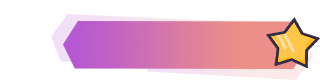
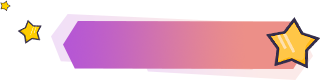
test

Changed region(s): [[0.0312, 0.25, 0.1562, 0.55], [0.0, 0.0, 0.0312, 0.125]]

diff --git a/index.html b/index.html
@@ -37,10 +37,10 @@
 						<div class="index_topmdbox">
 							<span class="active"></span><span></span>
 						</div>
-						<div class="index_treebox swiper-container1">
-							<ul class="clear swiper-wrapper">
+						<div class="index_treebox">
+							<ul class="clear">
 								<!-- 无树 -->
-								<li class="swiper-slide index_treeboxno">
+								<li class="oneli index_treeboxno">
 									<div class="con">
 										<p class="tit">领八宝树</p>
 										<div class="clear">
@@ -50,7 +50,7 @@
 									</div>
 								</li>
 								<!-- 有树 -->
-								<li class="swiper-slide index_treeboxhas">
+								<li class="oneli index_treeboxhas">
 									<a href="#" class="con">
 										<div class="index_treenameb">
 											<span class="ico"><svg class="icon" aria-hidden="true"><use xlink:href="#iconyinliang"></use></svg></span>
@@ -95,7 +95,7 @@
 									</a>
 								</li>
 								<!-- 抽奖 -->
-								<li class="swiper-slide index_treeboxcj">
+								<li class="oneli index_treeboxcj">
 									<a href="#" class="con">
 										<div class="titbox">
 											<span class="ico"><svg class="icon" aria-hidden="true"><use xlink:href="#iconwanwu"></use></svg></span>
@@ -199,6 +199,9 @@
 				</div>
 			</div>
 			<div class="index_adrighttit">
+				<span><svg class="icon" aria-hidden="true"><use xlink:href="#iconstar"></use></svg></span>
+				<span><svg class="icon" aria-hidden="true"><use xlink:href="#iconstar"></use></svg></span>
+				<span><svg class="icon" aria-hidden="true"><use xlink:href="#iconstar"></use></svg></span>
 				<p>看广告 收德星</p>
 			</div>
 		</div>
@@ -232,22 +235,32 @@
 		$(function(){
 			var swiper = new Swiper('.swiper-container', {
 				slidesPerView: 3,
-				spaceBetween: 30,
+				spaceBetween: 0,
+				grabCursor : true,
 				on: {
 					slideChangeTransitionEnd: function(){
 						$(".index_topmdbox span").eq(this.activeIndex).addClass("active").siblings().removeClass("active")
 					},
 				},
 			});
-			var swiperB = new Swiper('.swiper-container1');
+			// var swiperB = new Swiper('.swiper-container1',{
+			// 	autoplay: {
+			// 		delay: 6000,//1秒切换一次
+			// 		disableOnInteraction: false,
+			// 	},
+			// 	grabCursor : true,
+			// 	loop : true,
+			// });
 			var swiperV = new Swiper('.swiper-container-v', {
 			  autoplay: {
 				delay: 3000,//1秒切换一次
 				disableOnInteraction: false,
 			  },
 			  direction: 'vertical',
-			  spaceBetween: 50
+			  spaceBetween: 0
 			});
+			
+			aroundslide.init();
 		})
 		
 		var aLi = $(".index_adlist li");
@@ -264,7 +277,6 @@
 		        obj.find("i").hide();
 		    }
 		}
-
 		/* 计算节点到文档顶部的距离 */
 		function getTop(obj){
 		    var h = 0;
@@ -274,9 +286,6 @@
 		    }
 		    return h;
 		}
-
-
-
 		/* 页面加载完便执行一次滚动函数 */
 		window.onload = function(){
 		    readimglozy()
@@ -293,6 +302,83 @@
 		            setTimeout('createImg(aLi.eq('+i+'))',500)
 		        }
 		    }
+		}
+		
+		var aroundslide = {
+			thisw:$(".index_treebox ul"),
+			ac:0,
+			init:function(){
+				var _this = this;
+				_this.readli();
+				if(IsPC()){
+					this.pcevent();
+				}else{
+					this.ydevent();
+				}
+				_this.autofn();
+			},
+			pcevent:function(){
+				
+			},
+			ydevent:function(){
+				var _this = this;
+				this.thisw.on("touchstart", function(e) {
+					// 判断默认行为是否可以被禁用
+					if (e.cancelable) {
+						// 判断默认行为是否已经被禁用
+						if (!e.defaultPrevented) {
+							e.preventDefault();
+						}
+					}	
+					startX = e.originalEvent.changedTouches[0].pageX,
+					startY = e.originalEvent.changedTouches[0].pageY;
+					clearInterval(_this.timer)
+				});
+				$("body").on("touchend", function(e) {			
+					// 判断默认行为是否可以被禁用
+					if (e.cancelable) {
+						// 判断默认行为是否已经被禁用
+						if (!e.defaultPrevented) {
+							e.preventDefault();
+						}
+					}			    
+					moveEndX = e.originalEvent.changedTouches[0].pageX,
+					moveEndY = e.originalEvent.changedTouches[0].pageY,
+					X = moveEndX - startX,
+					Y = moveEndY - startY;
+					//左滑
+					if (Math.abs(-X)>Math.abs(-Y)&&X > 0 ) {
+						_this.ac--;
+						if(_this.ac<0){
+							_this.ac = _this.thisw.children(".oneli").length-1
+						}
+						_this.readli();
+					}
+					//右滑
+					else if (Math.abs(-X)>Math.abs(-Y)&& X < 0 ) {
+						_this.ac++;
+						if(_this.ac>_this.thisw.children(".oneli").length-1){
+							_this.ac = 0
+						}
+						_this.readli();
+					}
+					_this.autofn();
+				});
+			},
+			readli:function(){
+				this.thisw.children(".oneli").eq(this.ac).addClass("active").siblings().removeClass("active");
+			},
+			autofn:function(){
+				var _this = this;
+				clearInterval(_this.timer)
+				_this.timer = setInterval(function(){
+					_this.ac++;
+					if(_this.ac>_this.thisw.children(".oneli").length-1){
+						_this.ac = 0
+					}
+					_this.readli();
+				},6500)
+			}
 		}
 
 	</script>

diff --git a/css/index.css b/css/index.css
@@ -4,7 +4,6 @@
 .index_topbox li{
 	float: left;
 	text-align: left;
-	padding-left: 0.7rem;
 	box-sizing: border-box;
 	-webkit-box-sizing: border-box;
 	width: 33.33%;
@@ -12,7 +11,7 @@
 .index_topbox li p{
 	color: #949494;
 	font-size: 12px;
-	line-height: 0.48rem;
+	line-height: 0.48rem;padding-left: 0.6rem;
 }
 .index_topbox li p strong{
 	color: #303030;
@@ -39,13 +38,34 @@
 	background: #fdd329;
 }
 .index_treebox{
-	padding: 0 0.4rem 0.4rem;
+	padding: 0 0.52rem 0.4rem;
 }
-.index_treebox>ul>li{
+.index_treebox>ul{
 	position: relative;
 	height: 4.16rem;
 }
-.index_treebox>ul>li:after{
+.index_treebox>ul>li{
+	position: absolute;
+	width: 100%;
+	left: 0;
+	top: 0.2rem;
+	/* height: 4.16rem; */
+	height: 3.96rem;
+	transform: scale(0.9);
+	-webkit-transform: scale(0.9);
+	transform-origin: center bottom;
+	-webkit-transform-origin: center bottom;
+	transition: 0.5s;
+	opacity: 0.6;
+}
+.index_treebox>ul>li.active{
+	top: 0;
+	z-index: 100;
+	transform: scale(1);
+	-webkit-transform: scale(1);
+	opacity: 1;
+}
+/* .index_treebox>ul>li:after{
 	content:"";
 	position: absolute;
 	width: 8.52rem;
@@ -55,11 +75,9 @@
 	top: 0;
 	margin-left: -4.26rem;
 	border-radius: 0.44rem;
-}
+} */
 .index_treebox .con{
-	width:8.96rem;
-	margin: 0 auto;
-	/* padding: 0 0.52rem; */
+	box-sizing: border-box;
 	position: relative;
 	z-index: 2;
 	height: 3.96rem;
@@ -169,7 +187,7 @@
 .mytreemsgbox .lic{
 	float: left;
 	width: 33.33%;
-	padding-left: 0.72rem;
+	padding-left: 0.5rem;
 	box-sizing: border-box;
 	-webkit-box-sizing: border-box;
 }
@@ -394,4 +412,53 @@
 	transform: rotate(-2deg);
 	z-index: 1;
 	position: relative;
+}
+.index_adrighttit span{
+	position: absolute;
+	z-index: 10;
+}
+.index_adrighttit span:nth-of-type(1){
+	top: 0.1rem;
+    left: 0.6rem;
+    -webkit-animation: sleepy-icons 1s linear 0s infinite alternate;
+    animation: sleepy-icons 1s linear 0s infinite alternate;
+	font-size: 12px;
+	transform: rotate(-6deg);
+	-webkit-transform: rotate(-6deg);
+	/* display: none; */
+}
+.index_adrighttit span:nth-of-type(2){
+	top: -0.1rem;
+	left: 0.2rem;
+    -webkit-animation: sleepy-icons 1s linear 0.5s infinite alternate;
+    animation: sleepy-icons 1s linear 0.5s infinite alternate;
+	font-size: 12px;
+	transform: rotate(10deg) scale(0.7);
+	-webkit-transform: rotate(10deg) scale(0.7);
+}
+.index_adrighttit span:nth-child(3) {
+   top: 0.6rem;
+   left: 0.6rem;
+    font-size: 12px;
+    -webkit-animation: sleepy-icons 1s linear 1s infinite alternate;
+    animation: sleepy-icons 1s linear 1s infinite alternate;
+	transform: rotate(10deg) scale(0.7);
+	-webkit-transform: rotate(10deg) scale(0.7);
+	/* display: none; */
+}
+@-webkit-keyframes sleepy-icons {
+  0% {
+    opacity: 0;
+  }
+  100% {
+    opacity: 1;
+  }
+}
+@keyframes sleepy-icons {
+  0% {
+    opacity: 0;
+  }
+  100% {
+    opacity: 1;
+  }
 }
